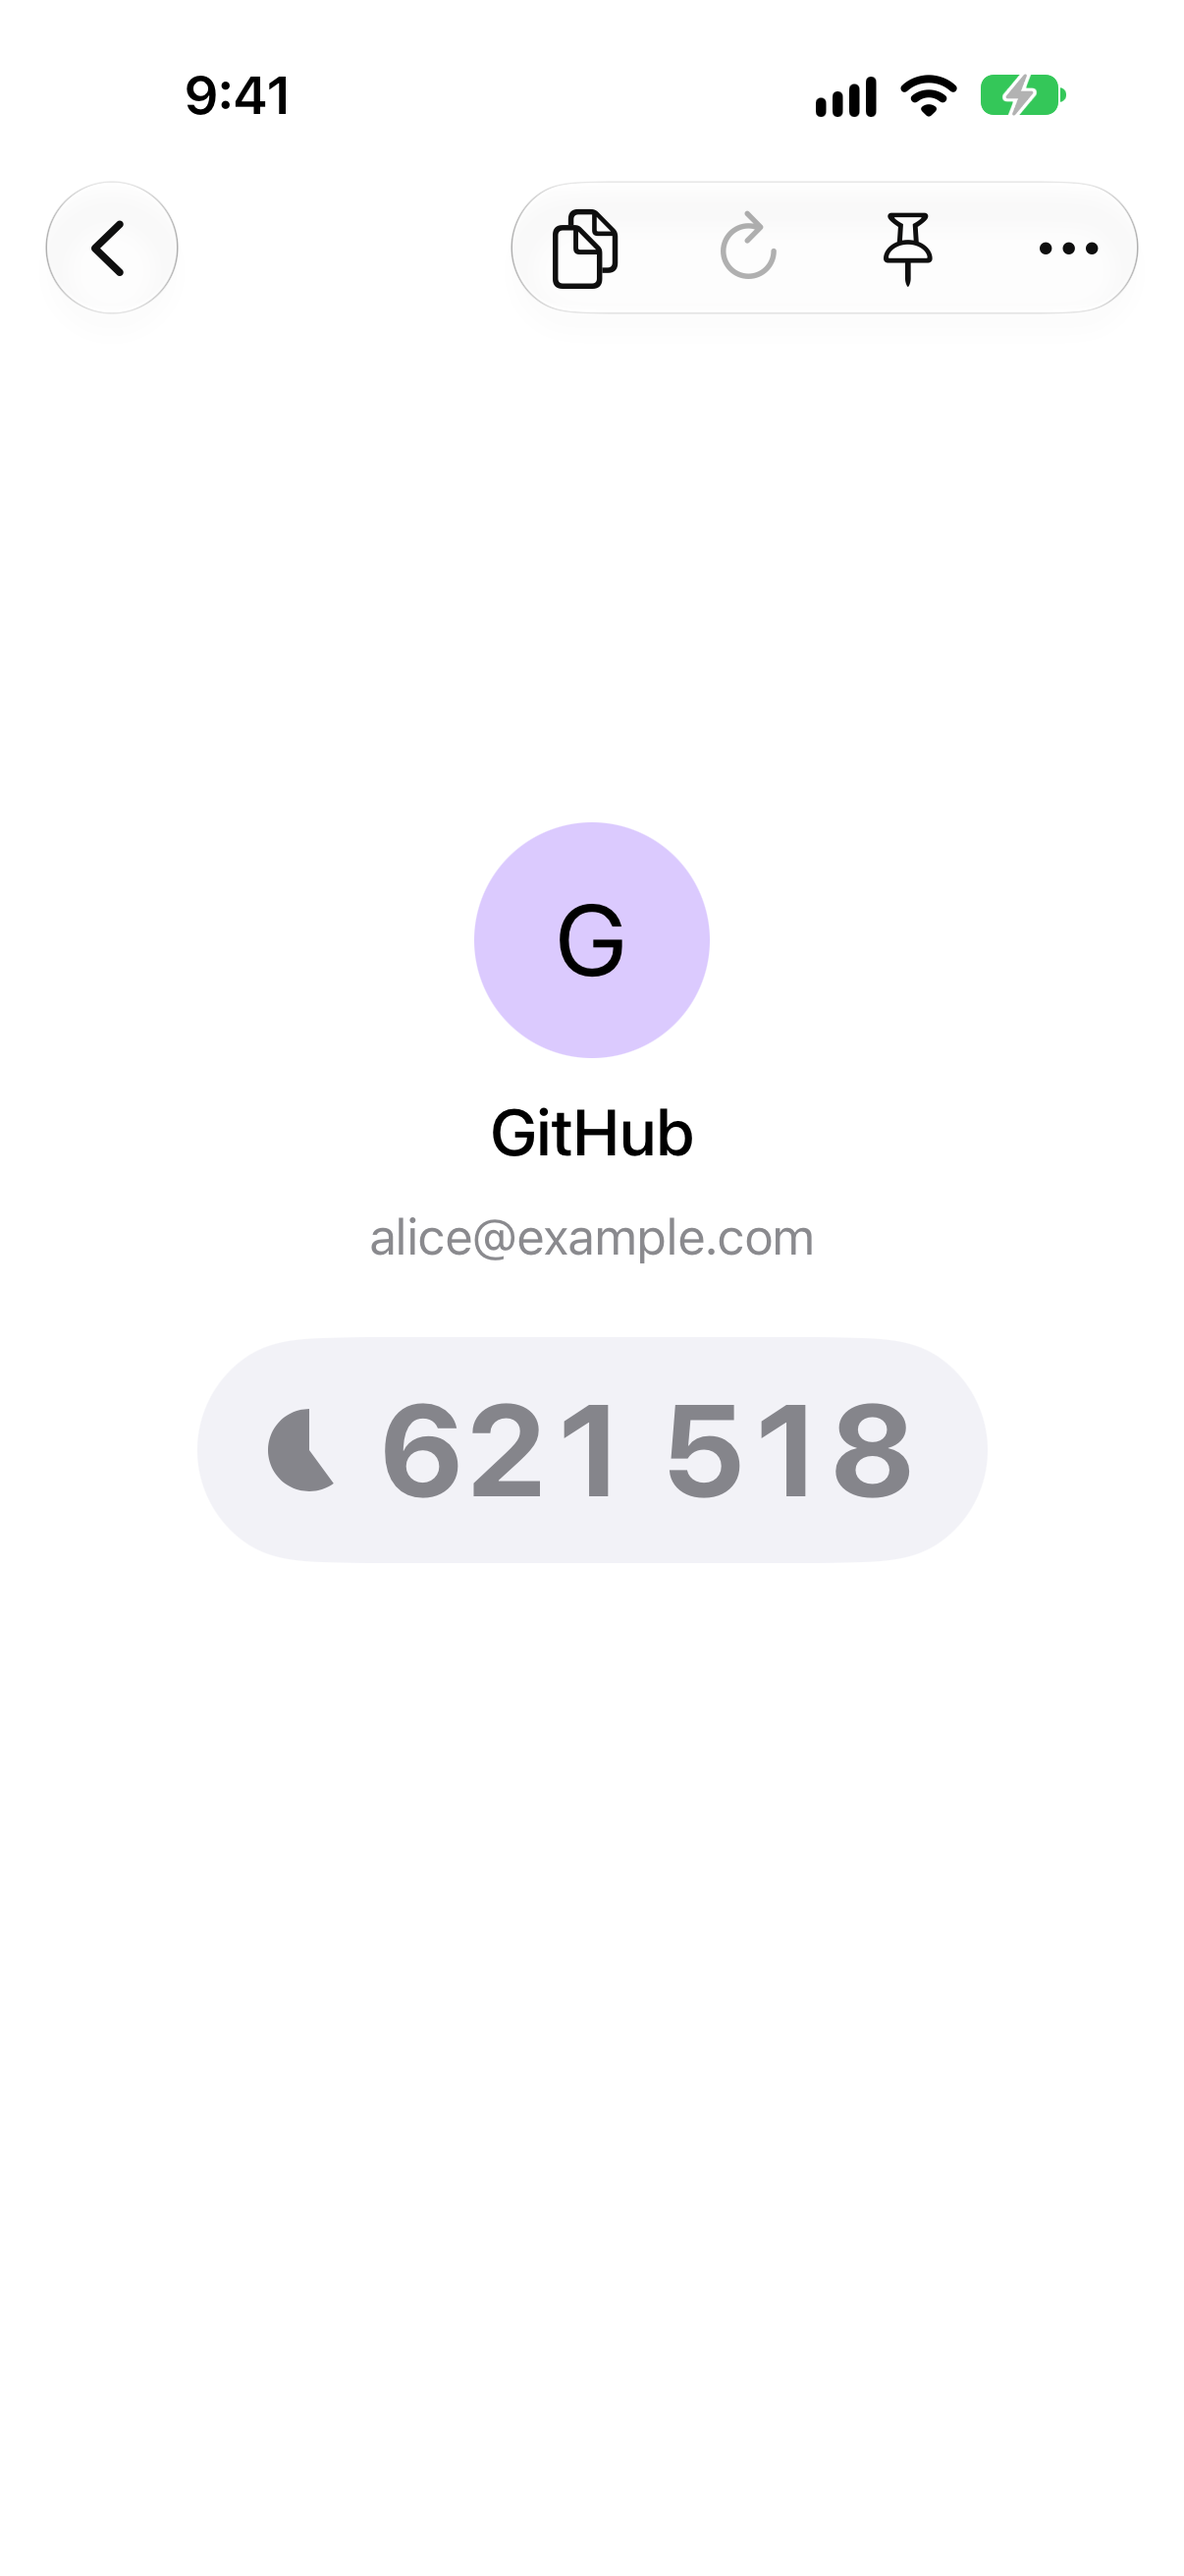
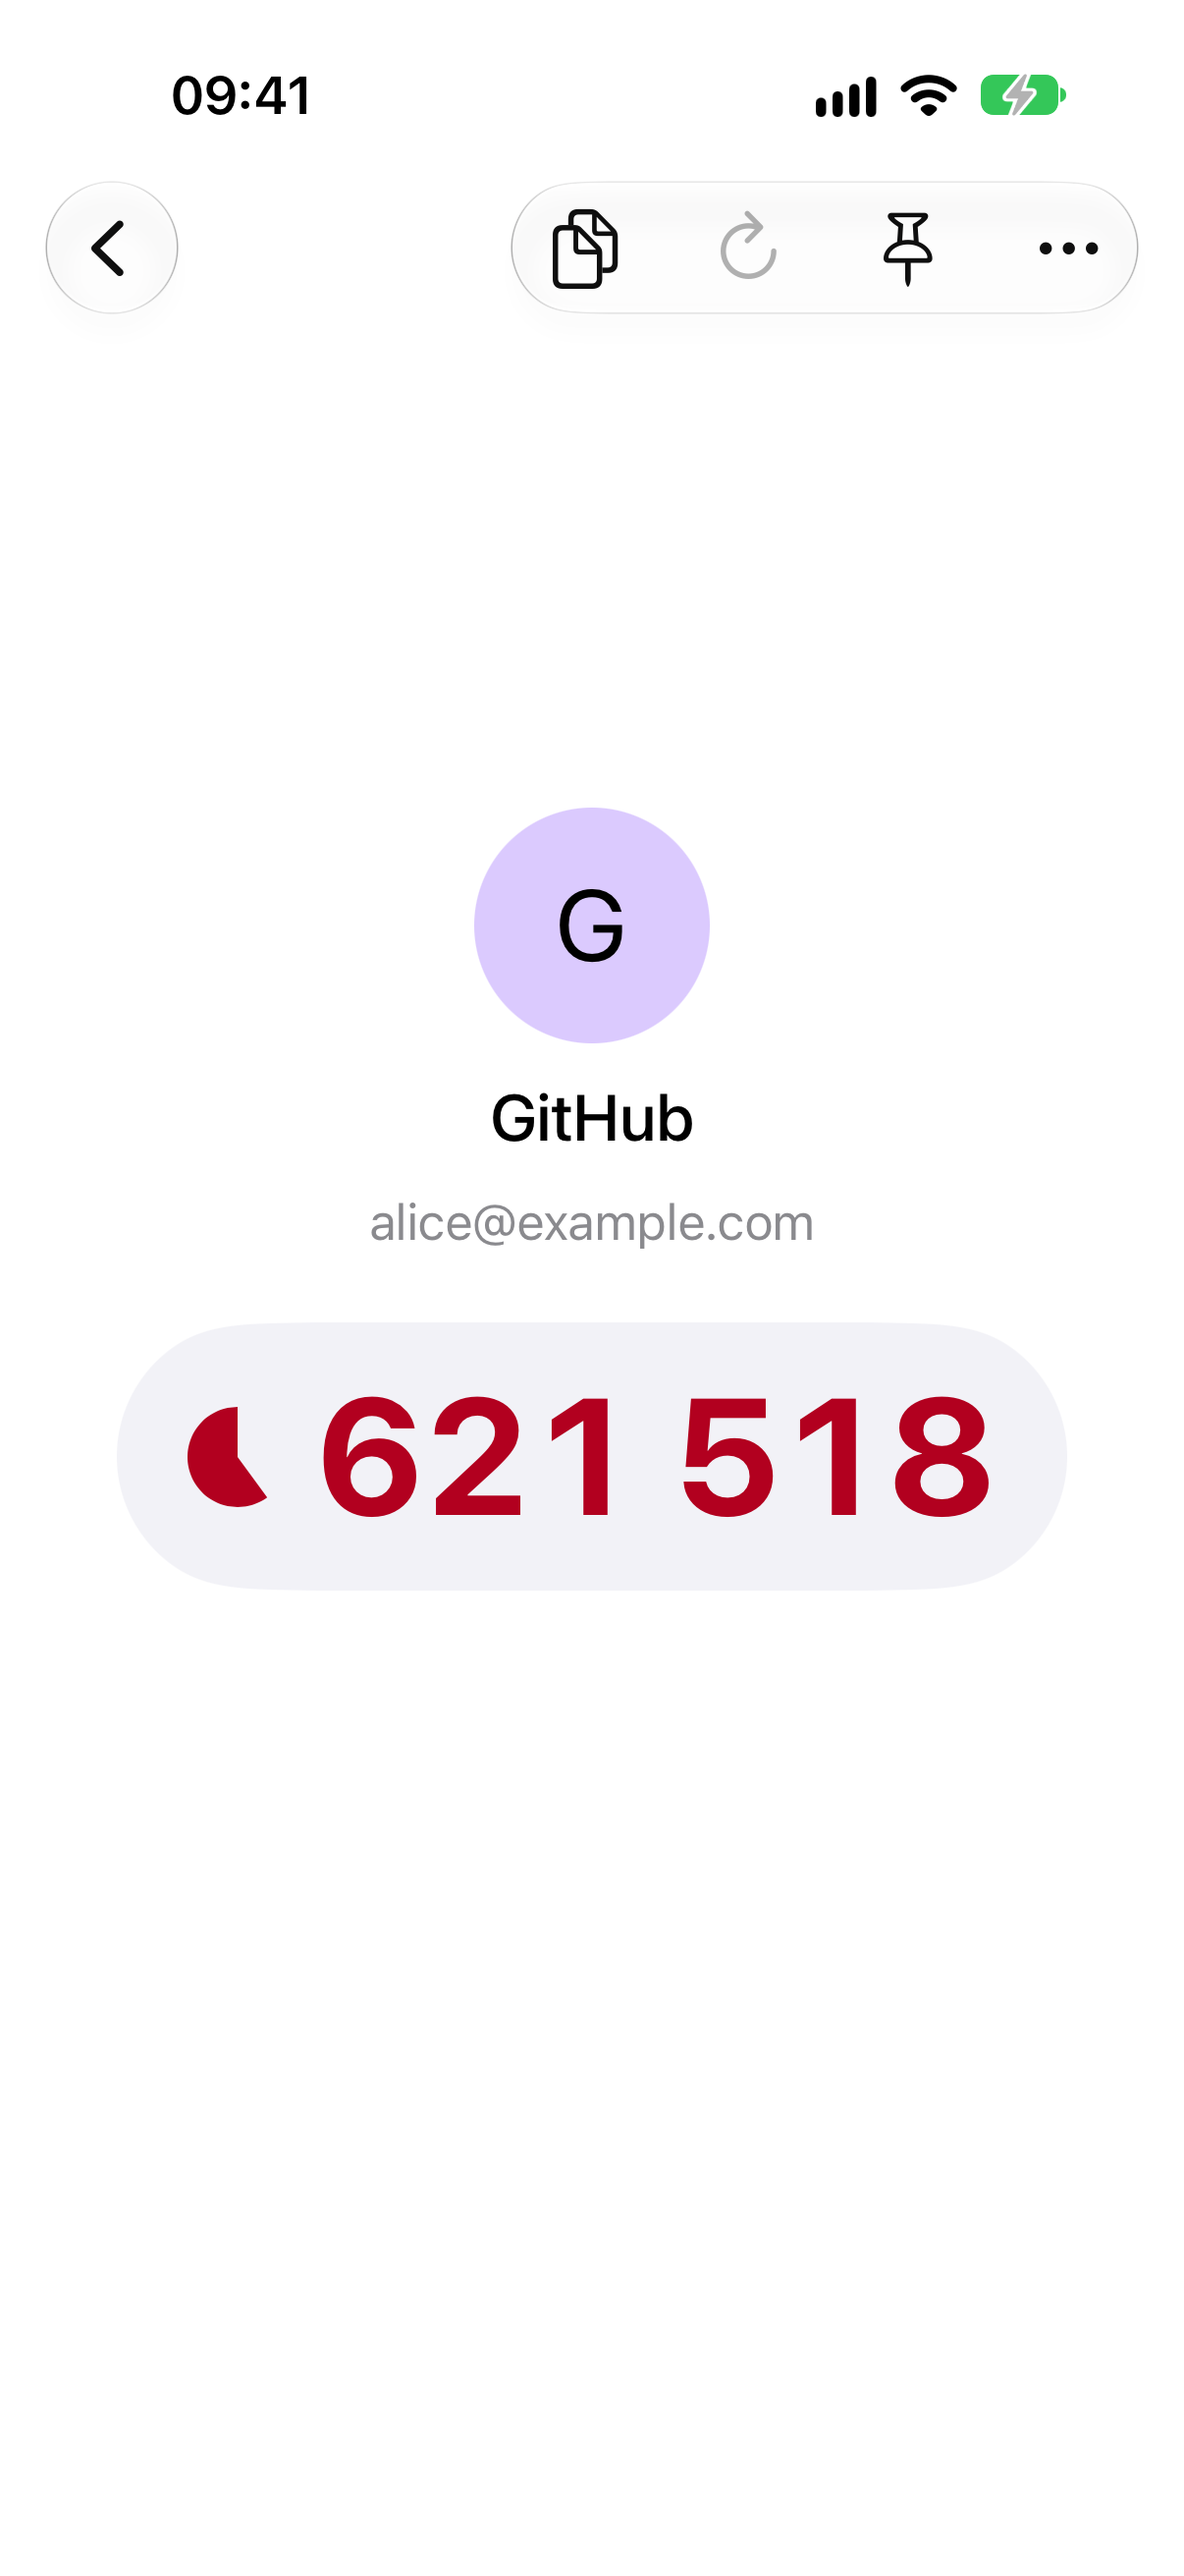
Make the account's code stand out in its details
The code in the details was gray on a gray capsule. It's now in the accent color,
like the codes in the list, and larger. The watch shows codes in the system font
with tabular digits instead of a monospaced typeface, and the About screen's gray
icons use the same solid gray as Configuration's.

Pull request #130.

diff --git a/Authenticator/UI/About/AboutView.swift b/Authenticator/UI/About/AboutView.swift
@@ -82,7 +82,7 @@ struct AboutView: View {
                         Platform.open(URL(string: "https://github.com/SINF-KEN/oriel-otp/blob/main/LICENSE")!)
                     } label: {
                         HStack {
-                            ListIconView(image: Image(systemName: "doc.text"), color: Color(.secondaryLabel))
+                            ListIconView(image: Image(systemName: "doc.text"), color: Color(.systemGray))
                             Text("Terms of use")
                                 .foregroundStyle(.primary)
                         }
@@ -91,7 +91,7 @@ struct AboutView: View {
                         Platform.open(URL(string: "https://github.com/SINF-KEN/oriel-otp/blob/main/PRIVACY.md")!)
                     } label: {
                         HStack {
-                            ListIconView(image: Image(systemName: "person.badge.shield.checkmark"), color: Color(.secondaryLabel))
+                            ListIconView(image: Image(systemName: "person.badge.shield.checkmark"), color: Color(.systemGray))
                             Text("Privacy policy")
                                 .foregroundStyle(.primary)
                         }
@@ -100,7 +100,7 @@ struct AboutView: View {
                         LicensingView()
                     } label: {
                         HStack {
-                            ListIconView(image: Image(systemName: "doc.text"), color: Color(.secondaryLabel))
+                            ListIconView(image: Image(systemName: "doc.text"), color: Color(.systemGray))
                             Text("Licensing")
                         }
                     }

diff --git a/Authenticator/UI/AccountDetailsView.swift b/Authenticator/UI/AccountDetailsView.swift
@@ -216,9 +216,11 @@ private struct AccountCodeButton: View {
     @Environment(\.colorSchemeContrast) private var colorSchemeContrast
     let account: Account
 
-    private let codeColor = Color(.secondaryLabel)
-    @ScaledSize(relativeTo: .largeTitle) private var codeFontSize: CGFloat = 44
-    @ScaledSize(relativeTo: .largeTitle) private var statusSize: CGFloat = 28
+    // The code is what the screen is for, so it's the largest thing on it and in the accent color, like the codes in the
+    // list. The asset has darker and lighter variants for Increase Contrast, so it stays readable on the gray capsule.
+    private let codeColor = Color.accentColor
+    @ScaledSize(relativeTo: .largeTitle) private var codeFontSize: CGFloat = 56
+    @ScaledSize(relativeTo: .largeTitle) private var statusSize: CGFloat = 34
 
     var body: some View {
         Button(action: { toastPresenter.copyCode(of: account) }) {

diff --git a/OrielOTPWatch/AccountListView.swift b/OrielOTPWatch/AccountListView.swift
@@ -76,7 +76,9 @@ private struct AccountRow: View {
                         : AnyLayout(HStackLayout(alignment: .center, spacing: 6))
                     layout {
                         Text(verbatim: OTPGenerator.grouped(code))
-                            .font(.system(.title2, design: .monospaced, weight: .semibold))
+                            .font(.system(.title2, weight: .semibold))
+                            // Tabular digits keep the code from shifting as it changes, without a monospaced typeface.
+                            .monospacedDigit()
                             .lineLimit(1)
                             .minimumScaleFactor(0.5)
                             .frame(maxWidth: .infinity, alignment: .leading)
